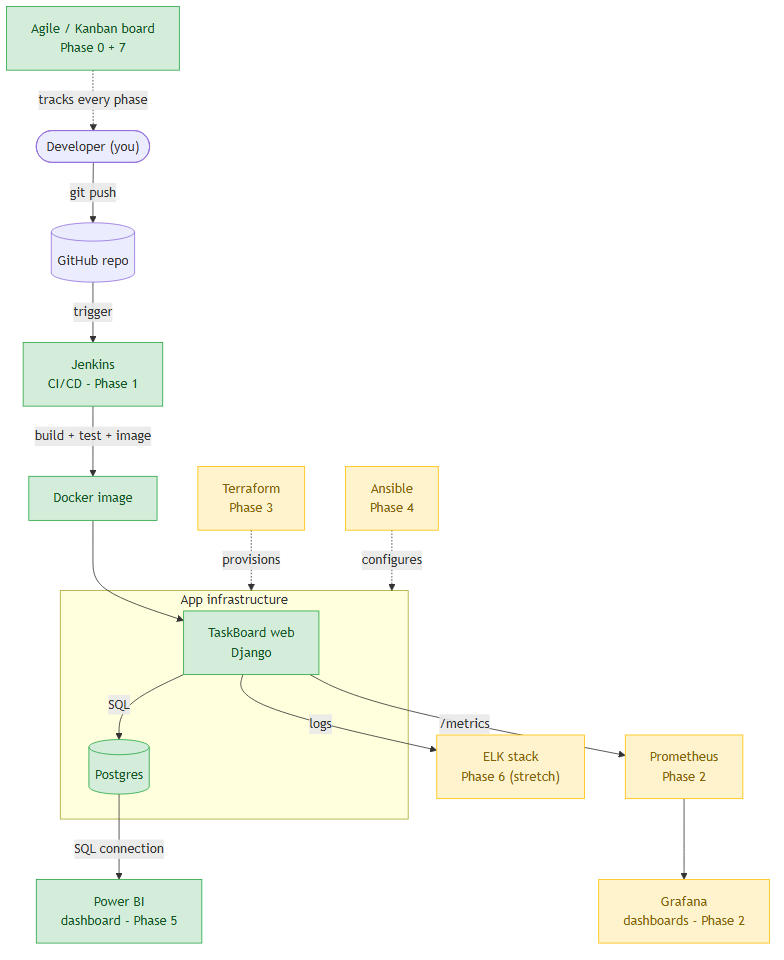
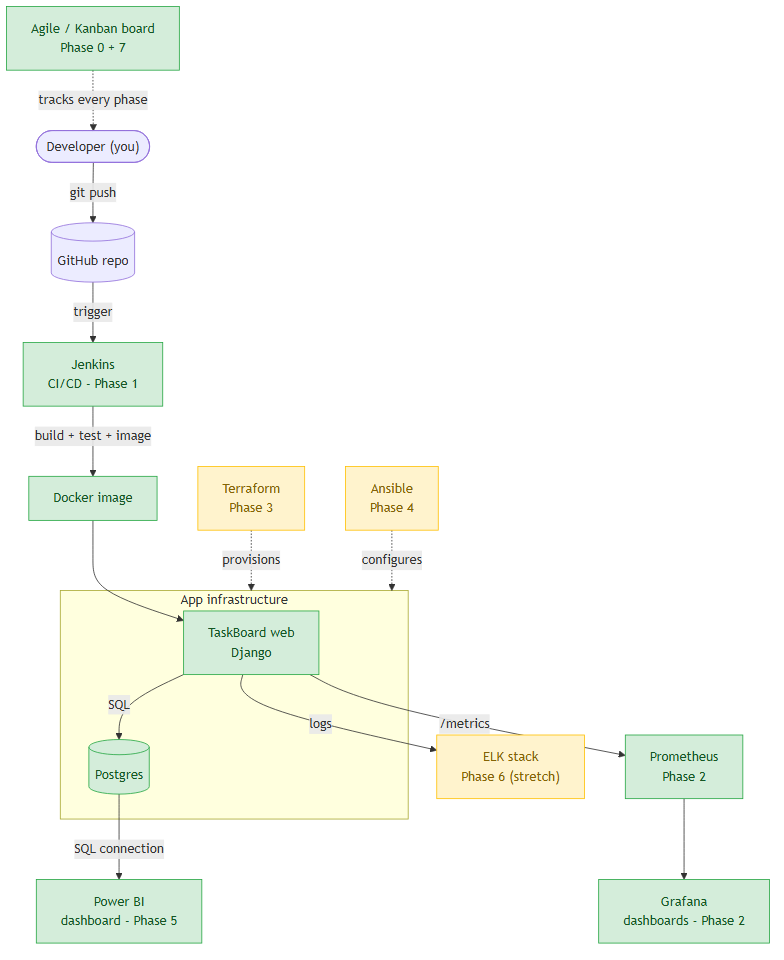
Phase 2 + interview prep: monitoring stack, cheat sheet, Agile/Prometheus pages, diagrams

Changed region(s): [[0.7653, 0.9062, 1.0, 1.0], [0.7959, 0.75, 0.949, 0.8438]]

diff --git a/wiki/interview/cheatsheet.md b/wiki/interview/cheatsheet.md
@@ -1,32 +1,74 @@
 ---
 tags: [interview, cheatsheet]
-status: in-progress
+status: done
 phase: 0
-updated: 2026-05-30
+updated: 2026-06-01
 ---
 
 # Monday Interview Cheat Sheet
 
-One-line-per-tool crib sheet. Claude refreshes this after every phase so it's
-ready to skim Monday morning. Filled rows appear as phases complete.
-
 ## The 30-second pitch
-> I'm a full-stack engineer (React, Django, SQL/Mongo) who already practices
-> DevOps via CI/CD. This weekend I built an end-to-end pipeline — a Dockerized
-> Django app taken from commit through Jenkins CI, Terraform-provisioned infra,
-> Ansible config, Prometheus/Grafana monitoring, and a Power BI analytics
-> dashboard — run as Agile sprints. _(refine after the build)_
+> I'm a full-stack engineer — React, Django, SQL & MongoDB — who already ships
+> with CI/CD via GitHub Actions. To round out the DevOps + Analytics side I built
+> an end-to-end project: a Dockerized Django app taken from commit → **Jenkins**
+> CI → **Prometheus/Grafana** monitoring → a live **Power BI** analytics
+> dashboard, all tracked on a **Kanban** board. So I can speak to the full
+> delivery lifecycle, not just writing the app.
+
+## The architecture story (walk this)
+TaskBoard (Django + Postgres, in Docker) is the product. Around it:
+- **git push → GitHub →** picked up by **Jenkins**, which runs a pipeline:
+  checkout → build the Docker image → run the tests. Green build = shippable.
+- The app exposes **`/metrics`**; **Prometheus** scrapes it every 5s; **Grafana**
+  graphs it live (request rate, etc.).
+- The same Postgres DB feeds a **Power BI** dashboard — KPIs + charts with DAX.
+- The whole thing was planned and tracked as **Agile** work on a Kanban board.
+
+## What I actually built (proof points)
+- **App:** Django REST API + admin + `/metrics`, Postgres, `docker compose up`.
+- **Jenkins:** Dockerized, pipeline-from-SCM, green build, 4 tests pass.
+- **Prometheus + Grafana:** scraping target UP, live PromQL graph.
+- **Power BI:** live Postgres connection, 4 DAX measures, cards+donut+bar+line.
+- **Process:** GitHub repo + Kanban board + this compounding wiki & diagrams.
 
 ## Per-tool one-liners
-| Tool | What it is (1 line) | What I built | Maps to |
-|------|---------------------|--------------|---------|
-| Jenkins | Self-hosted CI/CD server; pipeline-as-code in a Jenkinsfile | Dockerized Jenkins, SCM pipeline: checkout→build image→test, green build | GitHub Actions (Jenkinsfile ≈ deploy.yml) |
-| Prometheus+Grafana | _tbd_ | _tbd_ | monitoring |
-| Terraform | _tbd_ | _tbd_ | infra-as-code |
-| Ansible | _tbd_ | _tbd_ | config mgmt |
-| Power BI | BI tool: connect→model→DAX measures→visuals | Live-connected to Postgres, 4 DAX measures, dashboard (cards/donut/bar/line), .pbix | SQL data modeling; DAX ≈ SQL aggregates |
-| ELK | _tbd_ | _tbd_ | logging |
-| Agile/SDLC | _tbd_ | _tbd_ | how I ship |
+| Tool | What it is | What I built | Maps to |
+|------|-----------|--------------|---------|
+| Jenkins | Self-hosted CI/CD; pipeline-as-code (Jenkinsfile) | Dockerized Jenkins, SCM pipeline checkout→build→test, green | GitHub Actions |
+| Prometheus+Grafana | Pull-based metrics DB + dashboards | Scrape app /metrics, live request-rate graph | monitoring/observability |
+| Power BI | Connect→model→DAX→visuals | Live Postgres, 4 DAX measures, dashboard, .pbix | SQL modeling; DAX≈SQL aggregates |
+| Docker | Containerized app + all tooling | compose for app, Jenkins, monitoring | (already used in CI) |
+| Agile/Kanban | Iterative delivery, visualized flow | Ran this project as phases on a board | how I ship |
 
-## Likely questions (collected all weekend)
-_(to fill)_
+## Key Q&A (see each concept page for more)
+- **Jenkins vs GitHub Actions:** same CI/CD; Jenkins self-hosted/plugins, Actions
+  managed. Jenkinsfile ≈ workflow yaml. [[concepts/jenkins]]
+- **Containerized Jenkins builds images how?** mount the host Docker socket.
+- **Prometheus push or pull?** pull/scrape `/metrics`. `rate(counter[1m])` for
+  per-sec. [[concepts/prometheus-grafana]]
+- **Measure vs column (Power BI)?** measure = filter-aware, computed at query
+  time; column = per-row, stored. [[concepts/power-bi]]
+- **Scrum vs Kanban?** sprints+ceremonies vs continuous flow+WIP limits.
+  [[concepts/agile-sdlc]]
+
+## The gaps — how to speak to them honestly
+I didn't hands-on these in the window, but I understand them and the "as-code"
+principle behind them is the same one I used everywhere:
+- **Terraform** = infrastructure as code; declarative, idempotent, has state.
+  "I'd declare the same containers/cloud resources I built by hand in compose."
+- **Ansible** = configuration management; idempotent playbooks. Terraform
+  *provisions* infra, Ansible *configures* it.
+- **ELK** = centralized logging (Elasticsearch store + Kibana view); the "logs"
+  pillar that complements my Prometheus "metrics" pillar.
+- **Tableau** = same space as Power BI; concepts (data model, measures, viz)
+  transfer.
+Framing: "I learn tools fast by building — here's a weekend where I stood up
+Jenkins, Prometheus/Grafana, and Power BI from scratch. Terraform/Ansible are the
+next ones and I already use the same IaC mindset."
+
+## Questions to ask them
+- What does your CI/CD pipeline look like today — Jenkins, Actions, GitLab?
+- Cloud + IaC: AWS/Azure/GCP, Terraform or something else?
+- What does "Analytics" mean in this role day-to-day — Power BI reports, data
+  pipelines, both?
+- How do the DevOps and Analytics halves of the role split?

diff --git a/wiki/concepts/prometheus-grafana.md b/wiki/concepts/prometheus-grafana.md
@@ -1,27 +1,58 @@
 ---
 tags: [prometheus, grafana, monitoring, observability]
-status: not-started
+status: done
 phase: 2
-updated: 2026-05-30
+updated: 2026-06-01
 ---
 
 # Prometheus + Grafana
 
 ## What it is
-_(to fill during Phase 2)_
+- **Prometheus**: a time-series database that **pulls** ("scrapes") metrics from
+  targets' `/metrics` endpoints on an interval, and stores them.
+- **Grafana**: a dashboarding tool that queries Prometheus (via PromQL) and draws
+  live graphs.
 
 ## How it maps to what I already know
-New territory, but conceptually: app exposes metrics → Prometheus scrapes/stores
-→ Grafana visualizes. Pairs with logs ([[concepts/elk]]) as observability.
+New tooling, but the model is simple: app exposes numbers → Prometheus collects
+them → Grafana visualizes. It's the "metrics" pillar of observability (the others
+being logs — [[concepts/elk]] — and traces).
 
 ## Hands-on (what I built)
-_(to fill)_
+- Added `django-prometheus` to the app → it exposes `/metrics`.
+- Ran Prometheus + Grafana via `monitoring/docker-compose.yml`.
+- Configured Prometheus to scrape the app at `host.docker.internal:8000` every 5s
+  — confirmed the `taskboard` target is **UP** at `localhost:9090/targets`.
+- Connected Grafana to Prometheus (`http://prometheus:9090`) and graphed request
+  rate with PromQL.
 
 ## Key commands / snippets
-_(to fill)_
+```yaml
+# prometheus.yml
+scrape_configs:
+  - job_name: 'taskboard'
+    metrics_path: /metrics
+    static_configs:
+      - targets: ['host.docker.internal:8000']
+```
+```promql
+rate(django_http_requests_total_by_method_total[1m])   # requests/sec
+```
 
 ## Likely interview Q&A
-_(to fill)_
+- **Q: Push or pull?** A: Prometheus **pulls** (scrapes) targets — unlike, say,
+  StatsD which is push. Targets just expose `/metrics`.
+- **Q: What's `rate()` for?** A: Metrics like request counts are monotonic
+  counters; `rate(counter[1m])` gives the per-second increase over a window —
+  that's what you actually graph.
+- **Q: Prometheus vs Grafana — what does each do?** A: Prometheus = collect +
+  store + alert; Grafana = visualize (it's not a datastore).
+- **Q: Golden signals?** A: latency, traffic, errors, saturation — what you'd
+  build dashboards/alerts around.
 
 ## Gotchas
-_(to fill)_
+- A container scraping the host app uses `host.docker.internal` (Docker Desktop),
+  not `localhost` (which would mean the Prometheus container itself).
+- Grafana reaches Prometheus by service name on the shared compose network.
+
+See [[plan]] · pairs with [[concepts/elk]] as observability.

diff --git a/wiki/concepts/agile-sdlc.md b/wiki/concepts/agile-sdlc.md
@@ -1,27 +1,46 @@
 ---
 tags: [agile, scrum, kanban, sdlc, process]
-status: not-started
+status: done
 phase: 7
-updated: 2026-05-30
+updated: 2026-06-01
 ---
 
 # Agile / Scrum / Kanban / SDLC
 
 ## What it is
-_(to fill during Phase 7)_
+Ways of organizing software delivery. **Agile** = iterative, incremental delivery
+with feedback (vs big-bang waterfall). **Scrum** and **Kanban** are two Agile
+frameworks.
 
 ## How it maps to what I already know
-Vocabulary for how I already ship software. This whole weekend is run as sprints
-on a Kanban board (see [[plan]]) — that becomes a concrete story.
+This whole bootcamp was run as Agile: a **Kanban board** (GitHub Projects) with
+the work broken into phase "cards" moving Backlog → In progress → Done. That's a
+concrete story I can tell.
 
-## Hands-on (what I built)
-_(to fill — the Kanban board + a short retrospective)_
+## Key terms (say these confidently)
+**SDLC** (Software Dev Life Cycle): Plan → Design → Develop → Test → Deploy →
+Maintain. CI/CD automates the Develop→Test→Deploy part.
 
-## Key terms (Scrum roles, ceremonies, Kanban WIP, SDLC phases)
-_(to fill)_
+**Scrum:**
+- *Roles:* Product Owner (what/priority), Scrum Master (process/unblock), Dev Team.
+- *Artifacts:* Product Backlog, Sprint Backlog, Increment.
+- *Ceremonies:* Sprint Planning, Daily Standup, Sprint Review (demo), Retrospective.
+- *Sprint:* fixed timebox (1–4 wks) producing a shippable increment.
+
+**Kanban:**
+- Continuous flow (no fixed sprints); visualize work on a board.
+- **WIP limits** (cap items "In progress") to expose bottlenecks.
+- Pull-based: pick up the next item when you have capacity.
+
+**Scrum vs Kanban:** Scrum = timeboxed sprints + roles + ceremonies; Kanban =
+continuous flow + WIP limits, lighter process. Many teams blend them ("Scrumban").
 
 ## Likely interview Q&A
-_(to fill)_
+- **Q: How do you work in a team?** A: Agile — I take work off a prioritized
+  board, keep WIP low, demo increments, and reflect in retros. (Point to the
+  Kanban board I used for this project.)
+- **Q: Scrum vs Kanban?** A: (above) — sprints/ceremonies vs continuous flow/WIP.
+- **Q: Where does CI/CD fit the SDLC?** A: It automates build→test→deploy so every
+  commit is validated and shippable — shortens the feedback loop.
 
-## Gotchas
-_(to fill)_
+See [[plan]] (the board I ran this on).

diff --git a/wiki/plan.md b/wiki/plan.md
@@ -30,12 +30,12 @@ dataset for Power BI.
 |---|-------|-----|--------|------|
 | 0 | Setup + Agile board + scaffold app | 45m | done | this page |
 | 1 | Jenkins CI pipeline | 2.5h | done | [[concepts/jenkins]] |
-| 2 | Prometheus + Grafana | 2.5h | not-started | [[concepts/prometheus-grafana]] |
+| 2 | Prometheus + Grafana | 2.5h | done | [[concepts/prometheus-grafana]] |
 | 3 | Terraform (IaC) | 2.5h | not-started | [[concepts/terraform]] |
 | 4 | Ansible (config mgmt) | 2h | not-started | [[concepts/ansible]] |
 | 5 | Power BI dashboard | 3.5h | done | [[concepts/power-bi]] |
 | 6 | ELK logging (stretch) | 2h | not-started | [[concepts/elk]] |
-| 7 | Agile/SDLC study + cheat sheet | 1h | not-started | [[concepts/agile-sdlc]] |
+| 7 | Agile/SDLC study + cheat sheet | 1h | done | [[concepts/agile-sdlc]] |
 
 ## Schedule
 - **Sat:** phases 0–2 (~6h)

diff --git a/wiki/log.md b/wiki/log.md
@@ -2,6 +2,12 @@
 
 Append-only, newest at top. Format: `## [YYYY-MM-DD HH:MM] verb | title`.
 
+## [2026-06-01] phase-2+7 | Monitoring stack up + interview prep
+- Prometheus + Grafana running; Prometheus scraping app /metrics (target UP).
+- Grafana connected to Prometheus; request-rate PromQL graph.
+- Pivoted to interview prep: finalized cheat sheet, Agile/SDLC vocab page,
+  Prometheus page. Phases 0,1,2,5,7 done; Terraform/Ansible/ELK = talking points.
+
 ## [2026-05-31] phase-5 | Power BI dashboard built (done out of order)
 - Installed Power BI Desktop (winget). Connected LIVE to Postgres taskboard DB.
 - Wrote 4 DAX measures (Total/Completed/Completion Rate/Avg Days to Complete).
